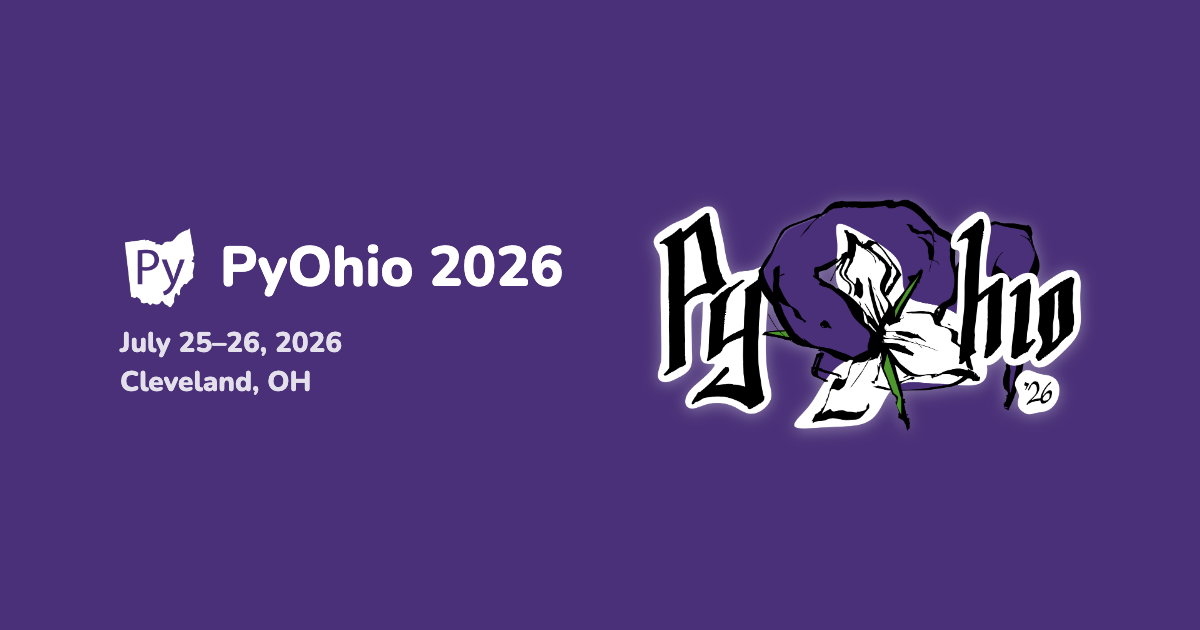
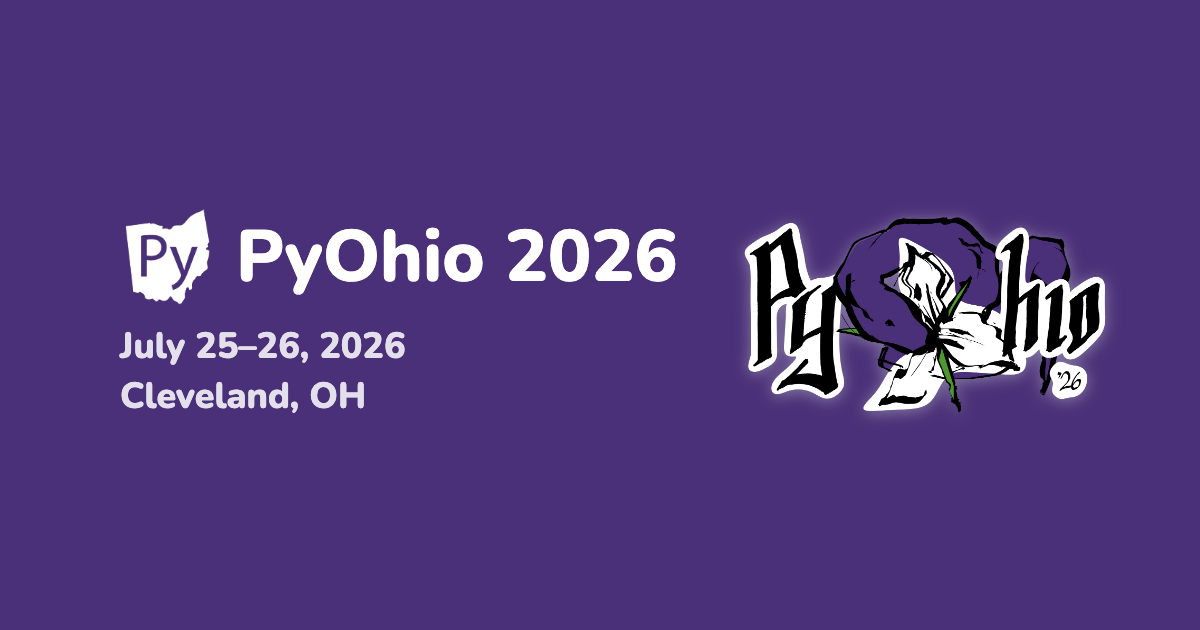
update og tags

Changed region(s): [[0.0925, 0.3016, 0.925, 0.6937], [0.0925, 0.5127, 0.3392, 0.6635]]

diff --git a/2026/_themes/pyohio/components/meta.html b/2026/_themes/pyohio/components/meta.html
@@ -10,6 +10,7 @@
 {% if _title is defined %}
 {% set description = _fm.get("description") or site.description %}
 {% set og_image = _fm.get("og_image") or site.og_image %}
+{% set og_logo = _fm.get("og_logo") or (site.base_url ~ site.base_path ~ "/img/pyohio-square-primary.png" if site.base_url) %}
 {% set _kw = _fm.get("keywords") %}
 {% if _kw is string %}{% set keywords = _kw %}{% elif _kw %}{% set keywords = _kw | join(", ") %}{% endif %}
 
@@ -28,6 +29,9 @@
 {% if og_image %}
 <meta property="og:image" content="{{ og_image }}">
 {% endif %}
+{% if og_logo %}
+<meta property="og:logo" content="{{ og_logo }}">
+{% endif %}
 {% if site.base_url %}
 {% set _slug_parts = _slug.split('/') %}
 {% if _slug_parts[-1] == 'index' %}
@@ -37,7 +41,7 @@
 {% else %}
   {% set _page_path = '/' + _slug + '.html' %}
 {% endif %}
-<meta property="og:url" content="{{ site.base_url }}{{ _page_path }}">
+<meta property="og:url" content="{{ site.base_url }}{{ site.base_path }}{{ _page_path }}">
 {% endif %}
 
 <meta name="twitter:card" content="{% if og_image %}summary_large_image{% else %}summary{% endif %}">

diff --git a/2026/og-preview.html b/2026/og-preview.html
@@ -50,14 +50,14 @@
         }
 
         .square-logo {
-            width: 80px;
-            height: 80px;
+            width: 96px;
+            height: 96px;
         }
 
         .title {
             font-family: 'Nunito', sans-serif;
             font-weight: 800;
-            font-size: 56px;
+            font-size: 72px;
             color: white;
             white-space: nowrap;
         }
@@ -65,9 +65,9 @@
         .subtitle {
             font-family: 'Nunito', sans-serif;
             font-weight: 400;
-            font-size: 28px;
+            font-size: 36px;
             color: rgba(255,255,255,0.85);
-            max-width: 420px;
+            max-width: 480px;
             line-height: 1.4;
         }
 
@@ -79,7 +79,7 @@
         }
 
         .hero-logo {
-            max-width: 500px;
+            max-width: 580px;
             width: 100%;
             filter: drop-shadow(0 2px 8px rgba(200,200,210,0.5));
         }
